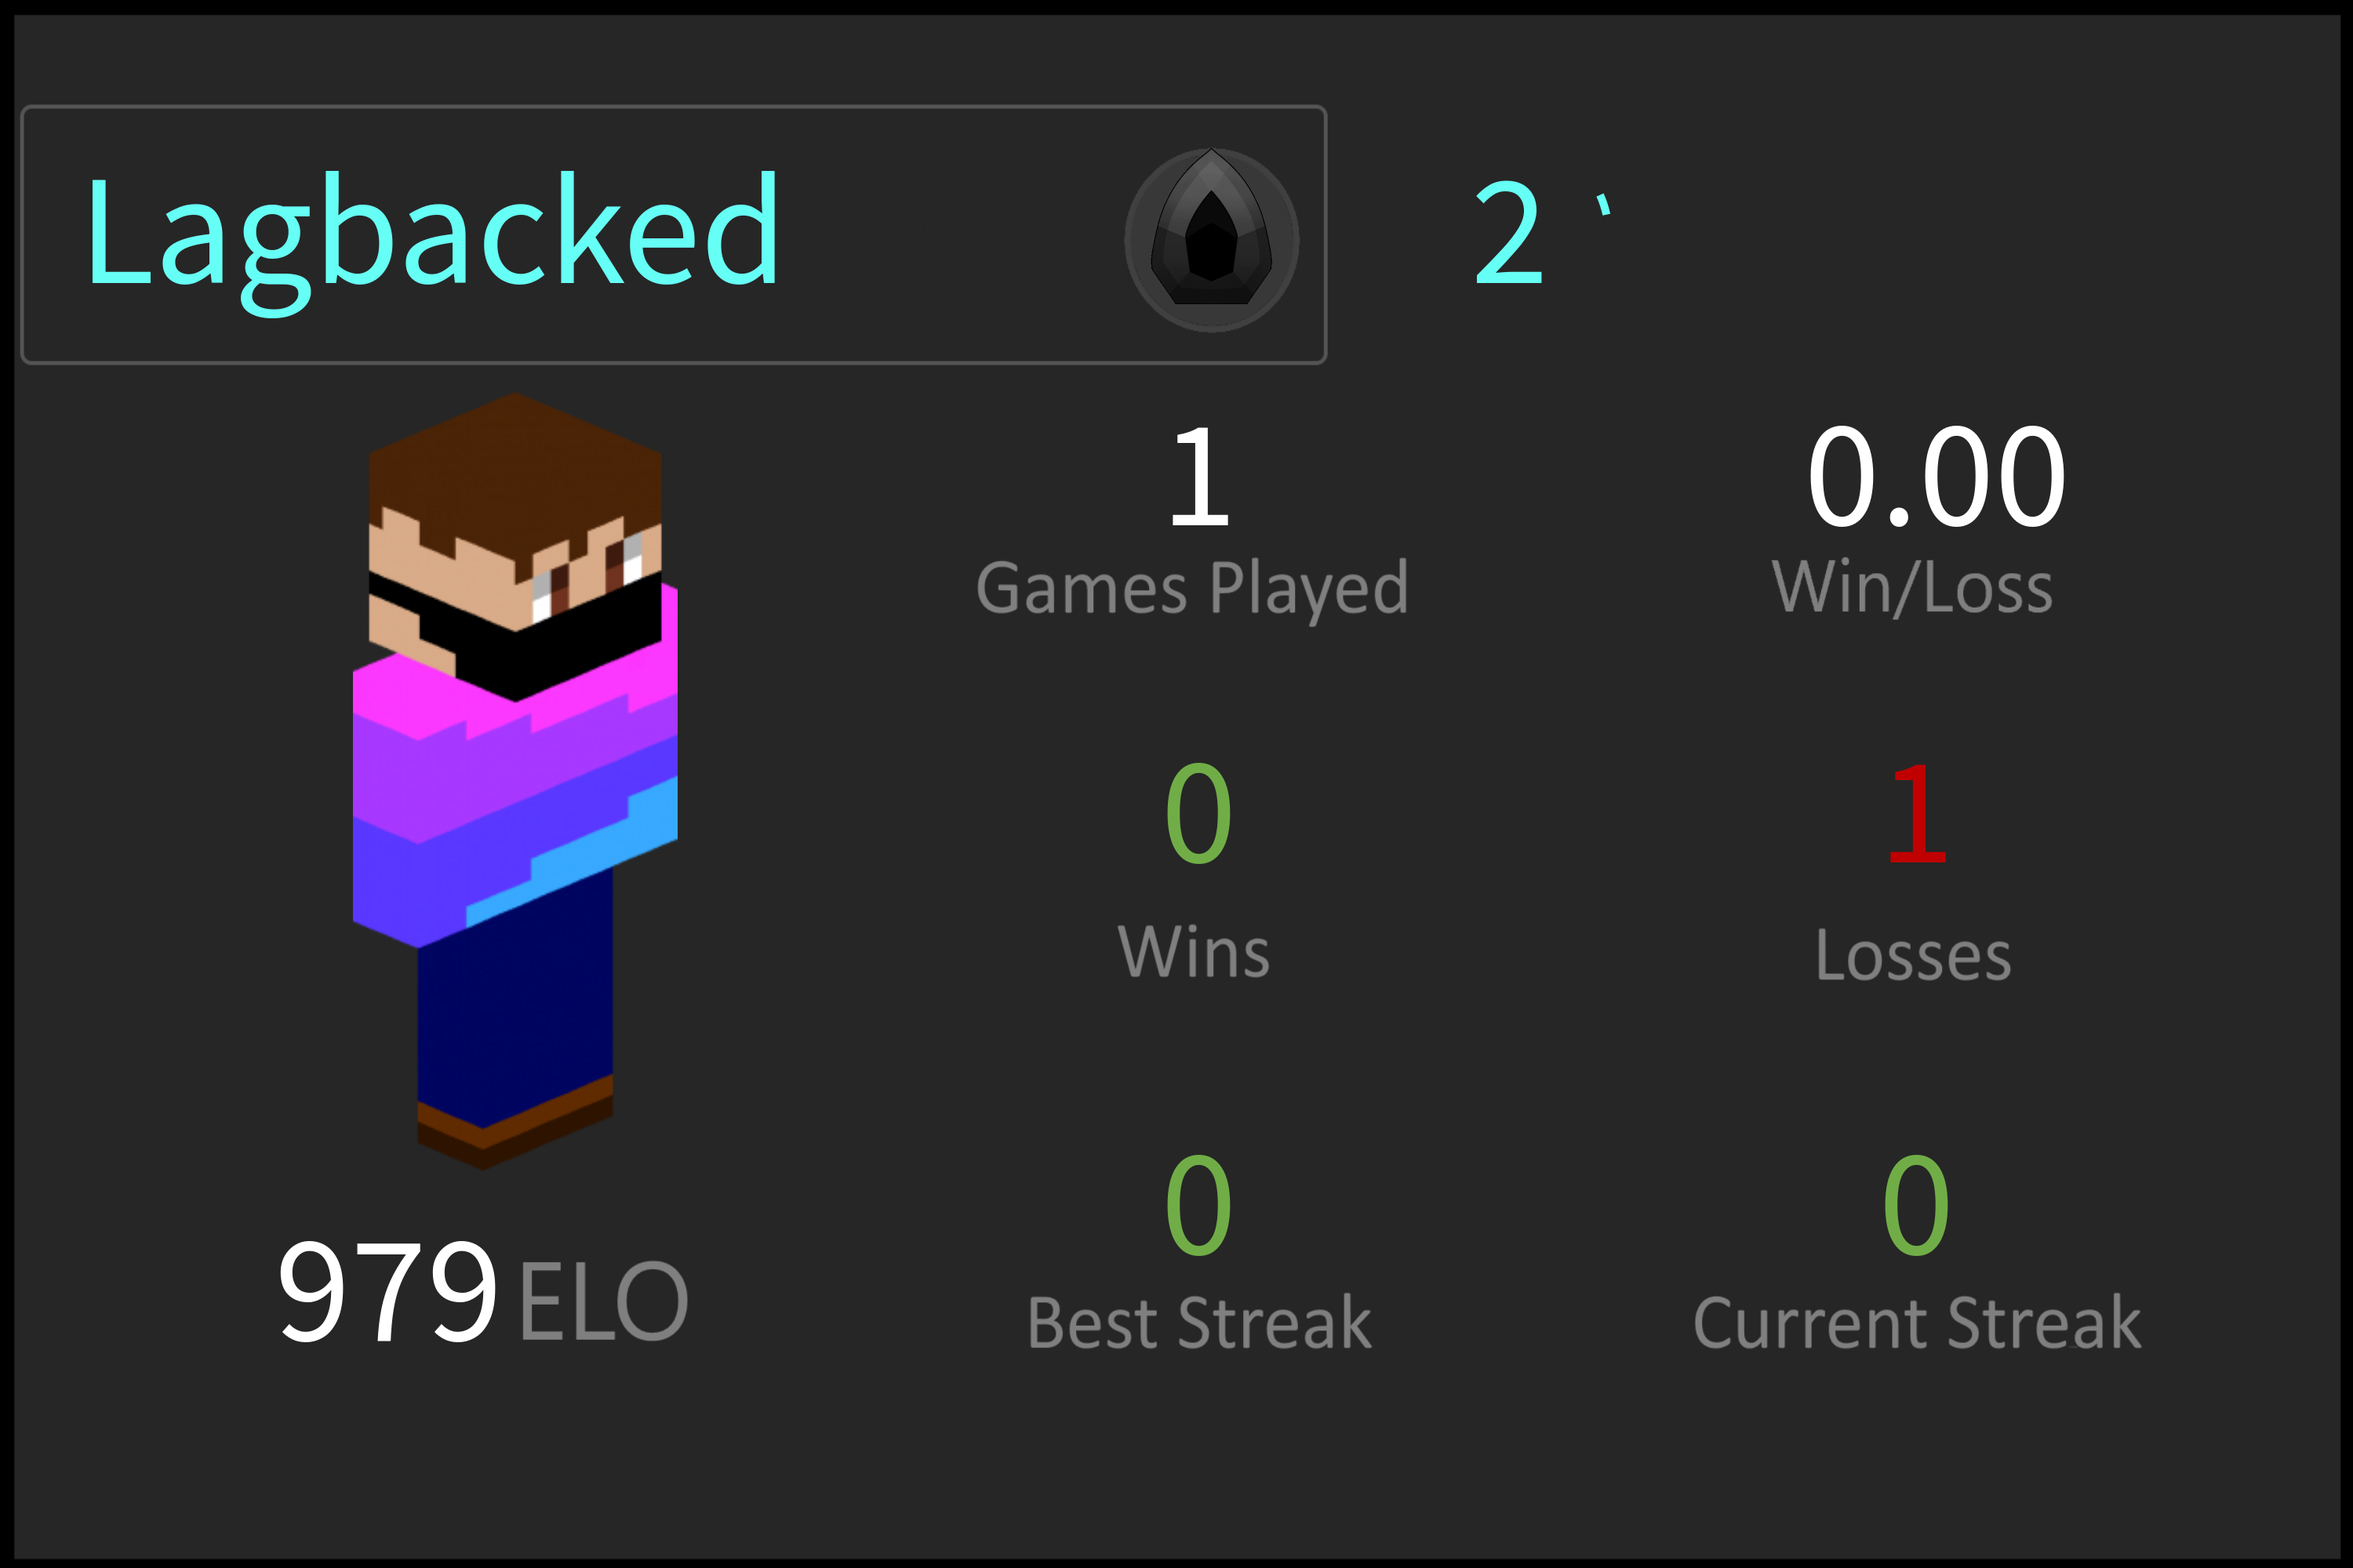
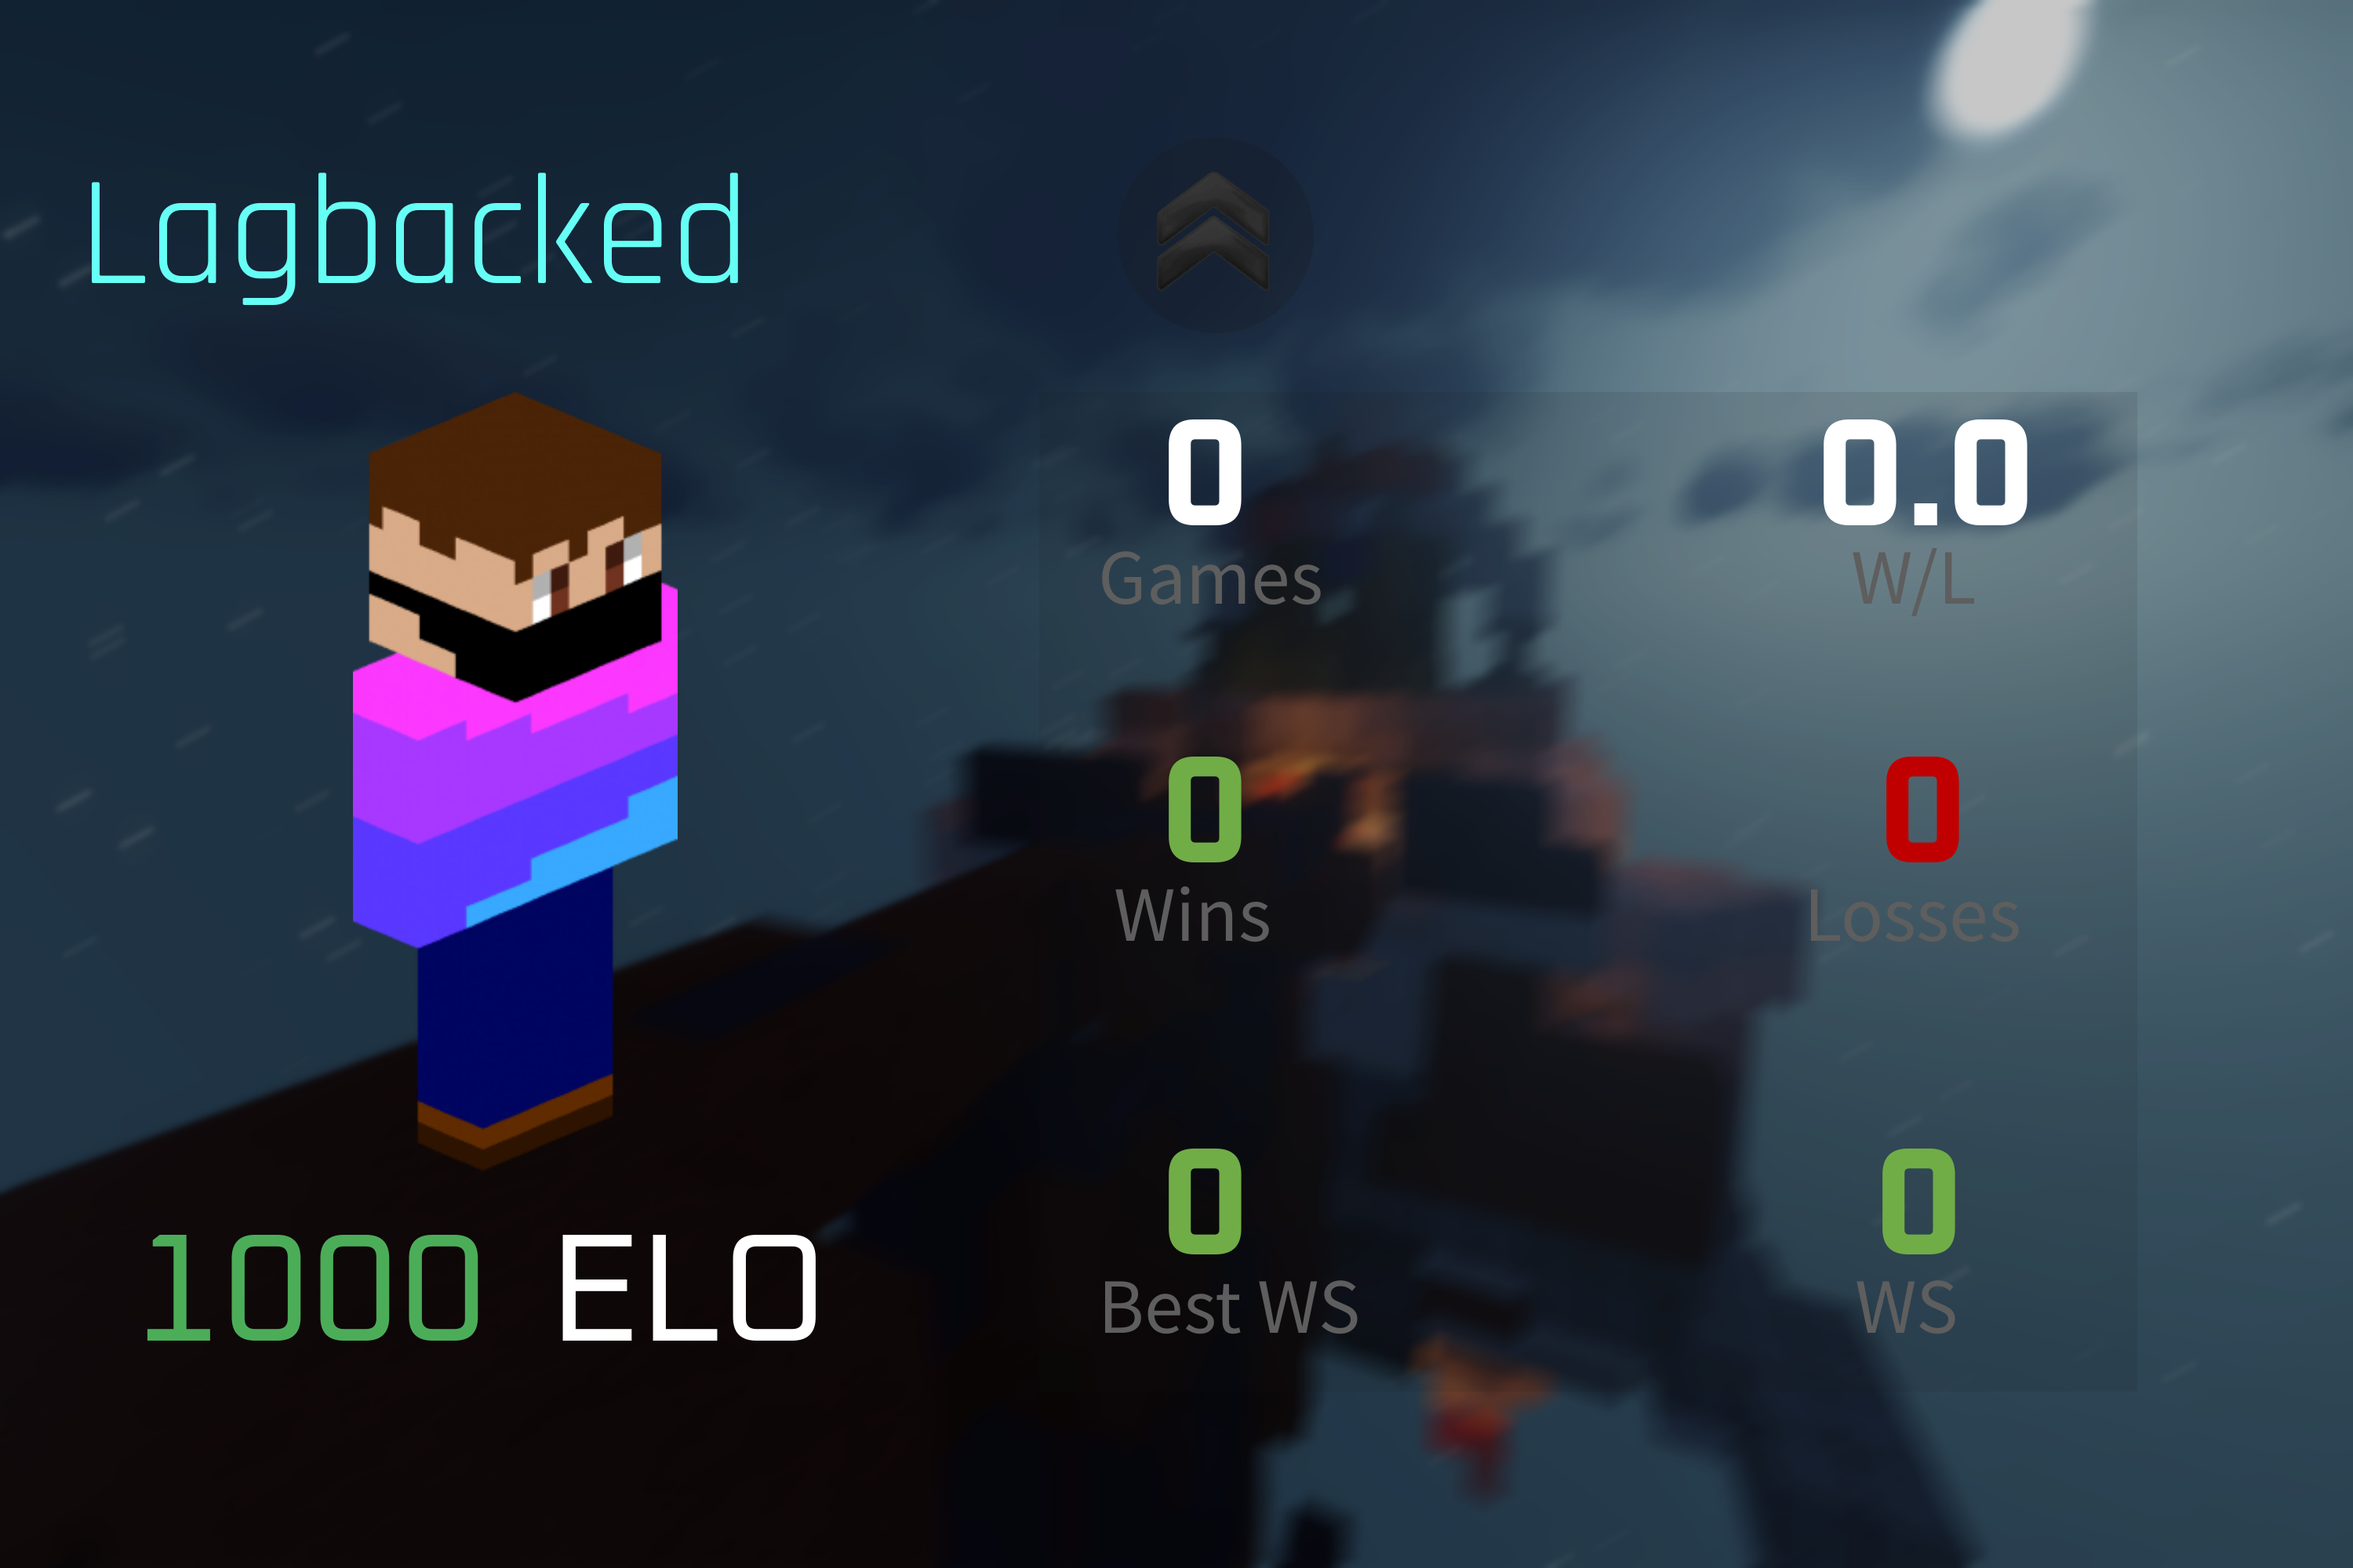
Added text commands. Fixed skins

diff --git a/events/guild/messageCreate.js b/events/guild/messageCreate.js
@@ -365,6 +365,54 @@ module.exports = async (client, message) => {
     }
     */
 
+    if (cmd.toLowerCase().startsWith("=i") || cmd.toLowerCase().startsWith("=info") || cmd.toLowerCase().startsWith("=stats")) {
+        let id = message.author.id;
+        if (args.length > 1) {
+            let mention = message.mentions.members.first();
+            if (!mention) {
+                id = await gameFunctions.getIdFromName(args[1]);
+                if (!id) {
+                    const errorEmbed = new Discord.EmbedBuilder()
+                        .setColor('#a84040')
+                        .setDescription("That user isn't in the database!")
+                        .setTimestamp();
+                    message.reply({ embeds: [errorEmbed] });
+                    return;
+                }
+            } else {
+                id = mention.id;
+            }
+        }
+        const loadingEmbed = new Discord.EmbedBuilder()
+            .setColor(0x2f3136)
+            .setTitle("Loading...")
+            .setDescription("This may take a few seconds.")
+            .setTimestamp();
+        message.reply({ embeds: [loadingEmbed] }).then((msg) => {
+            message.channel.messages.fetch(msg.id).then(async (message) => {
+                if (!message) {
+                    return;
+                }
+                let card = await gameFunctions.scoreCard(id);
+                if (!card) {
+                    const errorEmbed = new Discord.EmbedBuilder()
+                        .setColor('#a84040')
+                        .setDescription("That user isn't in the database!")
+                        .setTimestamp();
+                    message.edit({ embeds: [errorEmbed], ephemeral: true });
+                    return;
+                }
+                message.edit({ embeds: [], files: [card] });
+            }).catch((err) => {
+                functions.sendError(functions.objToString(err), interaction.guild, "General Message");
+                console.error(err);
+            });
+        }).catch((err) => {
+            functions.sendError(functions.objToString(err), interaction.guild, "General Message");
+            console.error(err);
+        });
+    }
+
     if (cmd.toLowerCase().startsWith("=score")) {
         let isIG = false;
         for (let i = 0; i < variables.curGames.length; i++) {

diff --git a/handlers/game/gameFunctions.js b/handlers/game/gameFunctions.js
@@ -44,6 +44,7 @@ let con = mysql.createPool({
     debug: false
 });
 
+module.exports.getIdFromName = getIdFromName;
 module.exports.getELO = getELO;
 module.exports.makeChannel = makeChannel;
 module.exports.getGames = getGames;
@@ -163,7 +164,7 @@ async function scoreCard(id) {
             const image = await loadImage("images/test.png").catch((err) => {
                 reject(err);
             });
-            const imagee = await loadImage("https://mc-heads.net/body/" + id + "/right").catch((err) => {
+            const imagee = await loadImage("https://mc-heads.net/body/" + id.uuid + "/right").catch((err) => {
                 reject(err);
             });
             if (!image || !imagee) {
@@ -652,7 +653,7 @@ async function getUUID(username) {
     return new Promise(async function (resolve, reject) {
         let uuidURL = "https://api.mojang.com/users/profiles/minecraft/" + username;
         axios.get(uuidURL, {
-        }).then(async (res) => {
+        }).then((res) => {
             resolve({ "name": res.data.name, "uuid": res.data.id })
         }).catch((err) => {
             reject(err);
@@ -682,6 +683,19 @@ async function isInDb(id) {
             }
     
             resolve(true);
+        });
+    });
+}
+
+async function getIdFromName(name) {
+    return new Promise(function (resolve, reject) {
+        con.query(`SELECT * FROM rbridge WHERE name = '${name}'`, (err, rows) => {
+            if (err) reject(err);
+            if (!rows || rows.length === 0) {
+                resolve(null);
+                return;
+            }
+            resolve(rows[0].id);
         });
     });
 }
